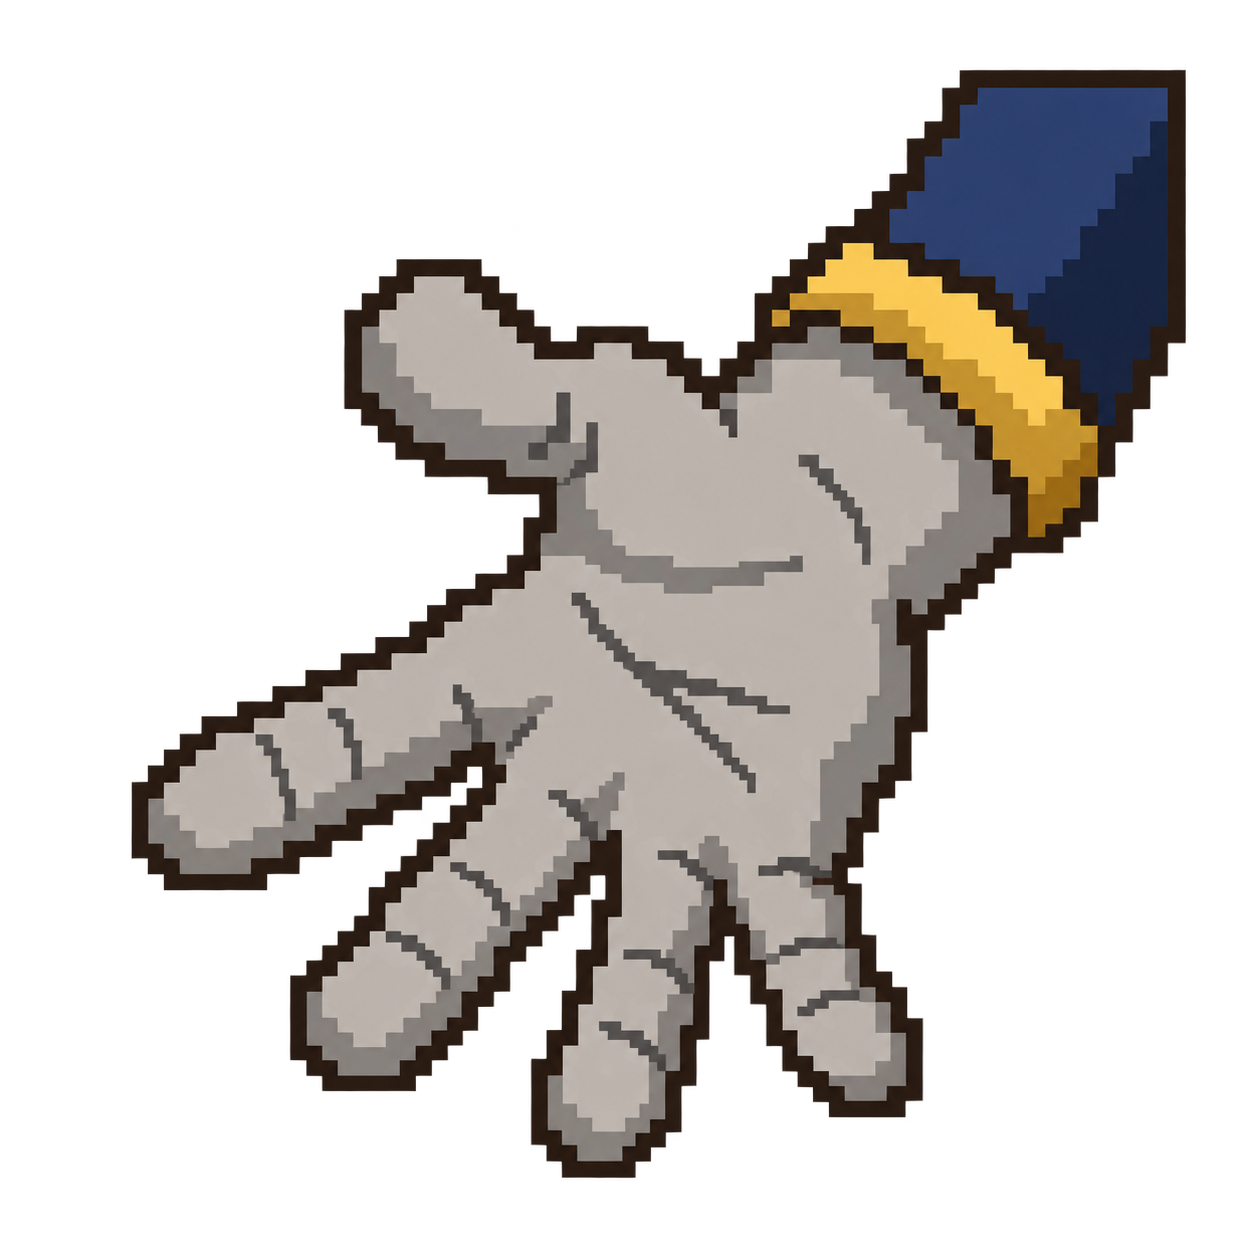
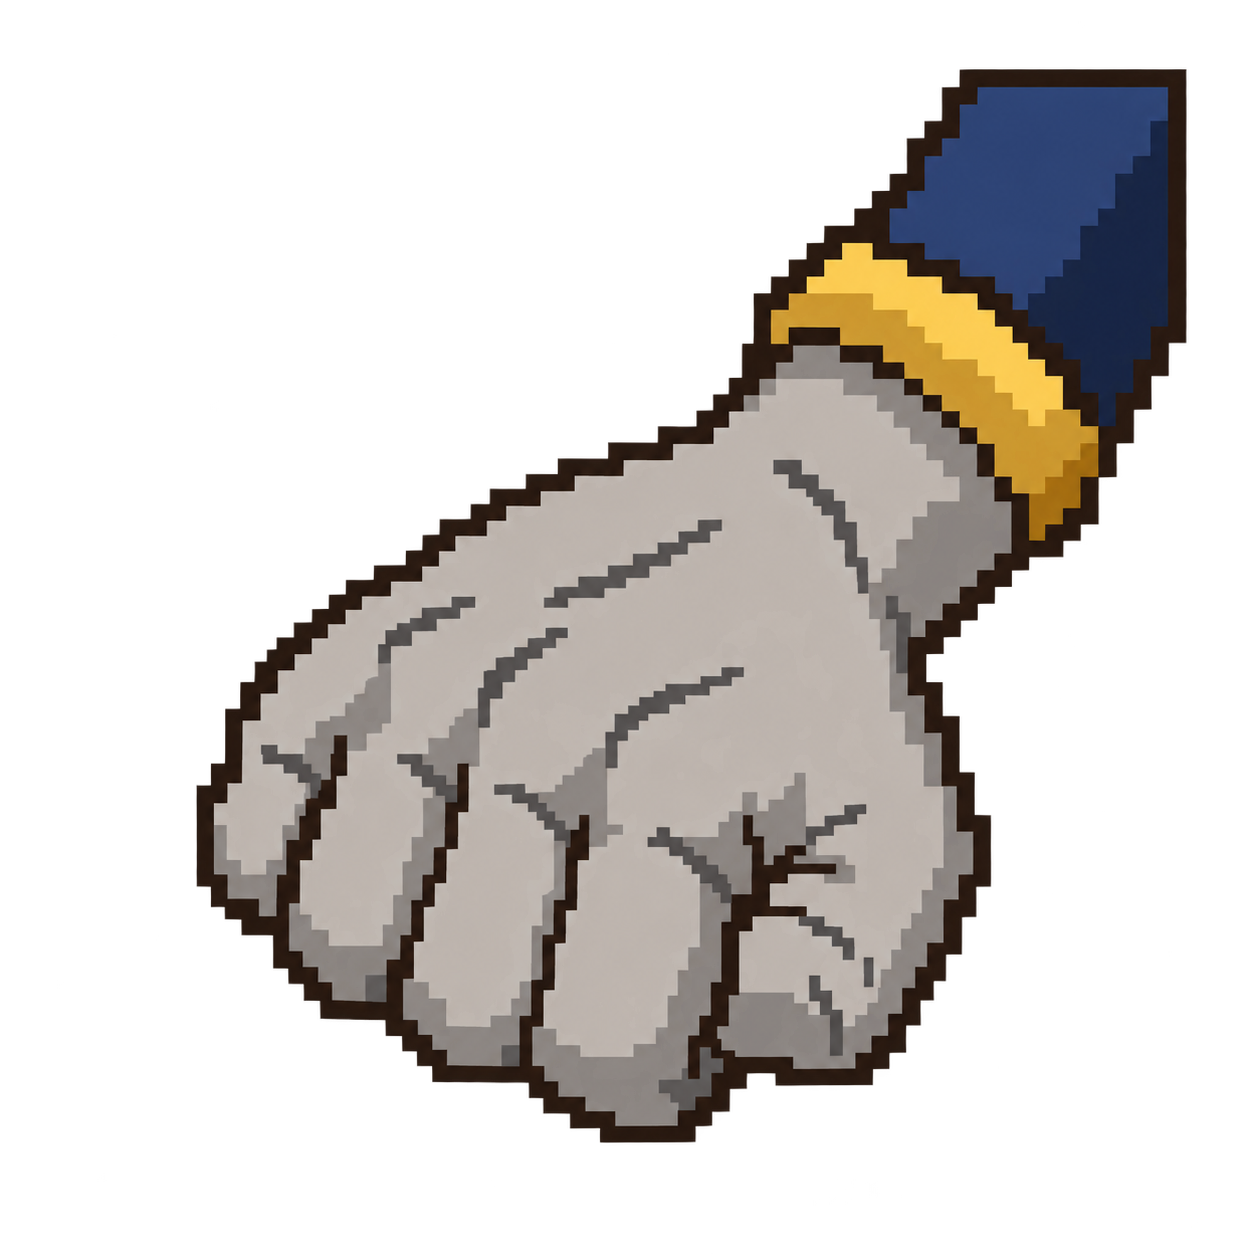
Revise giant hazard as clenched fist

Changed region(s): [[0.0933, 0.1866, 0.8397, 0.9641], [0.8708, 0.3421, 0.9019, 0.3732], [0.8397, 0.4043, 0.8708, 0.4354]]

diff --git a/host/assets/pixelart/v3/README.md b/host/assets/pixelart/v3/README.md
@@ -14,7 +14,7 @@ Use v3 for the current roster. Hamlet, Miranda, council members, and Tinman were
 | Council — Liftmaster | [council/liftmaster.png](council/liftmaster.png) | New: arrow staff, rope, green hood |
 | Council — Wingmaster | [council/wingmaster.png](council/wingmaster.png) | New: goggles, scarf, feather |
 | Council — Royal Seer | [council/royal_seer.png](council/royal_seer.png) | New: eye emblem, purple hood, orb |
-| Giant | [hazards/giant_hand.png](hazards/giant_hand.png) | Hand representation of the established obstacle |
+| Giant | [hazards/giant_hand.png](hazards/giant_hand.png) | Clenched fist hazard, ready to slam |
 | Lord Tinman | [npcs/lord_tinman.png](npcs/lord_tinman.png) | Revised: compact armor and broken-heart tabard |
 | Sir Cheapdate | [npcs/sir_cheapdate.png](npcs/sir_cheapdate.png) | Tipsy expression, feather cap, goblet |
 | Count Rutabaga | [npcs/count_rutabaga.png](npcs/count_rutabaga.png) | Puzzled expression, monocle, mismatched boots |
@@ -26,7 +26,7 @@ Use v3 for the current roster. Hamlet, Miranda, council members, and Tinman were
 - High-resolution static pixel-style sprite studies, not normalized 48x64 animation sheets. Sprite footprint and palette still need a production pixel-grid pass. Use nearest filtering and preserve aspect ratio in prototype previews.
 - PNG decoding and transparent corner samples checked for all 13 files; generated outputs visually inspected. In-engine animation and readability have not been validated.
 - Prospero's outcome mapping is documented for Claude; this pack does not implement boss logic.
-- The Giant is represented by the established hand hazard. Council uses current live roles: Helmsman, Liftmaster, Wingmaster and Royal Seer.
+- The Giant is represented by a clenched-fist hazard. Council uses current live roles: Helmsman, Liftmaster, Wingmaster and Royal Seer.
 - Runtime files are being edited in parallel by the world builder. Point scene textures at `res://assets/pixelart/v3/...` during integration; the old standalone demo may still reference older Hamlet art.
 
 Open [gallery.html](gallery.html) to review the entire roster together.

diff --git a/host/assets/pixelart/VERSION_HISTORY.md b/host/assets/pixelart/VERSION_HISTORY.md
@@ -1,5 +1,9 @@
 # Pixel-art version history
 
+## v3.1 — 2026-09-26 — Giant fist revision
+
+Replaced the v3 Giant open-hand hazard with a matching transparent clenched-fist PNG, preserving its royal-blue sleeve, gold cuff, scale, and original pixel-art treatment. The v3 manifest and roster notes now identify it as a slam fist.
+
 ## v3 — 2026-09-26 — complete consistent roster
 
 Added new Hamlet and Miranda in the compact RPG style, four player council characters, and a shorter Tinman. Combined these with the six retained v2 images into a complete 13-PNG roster (including both Prospero moods). See `v3/README.md`, `v3/manifest.json` and `v3/gallery.html`. Source PNGs decode correctly and have transparent corner samples. Runtime integration and production pixel-grid normalization remain pending.
